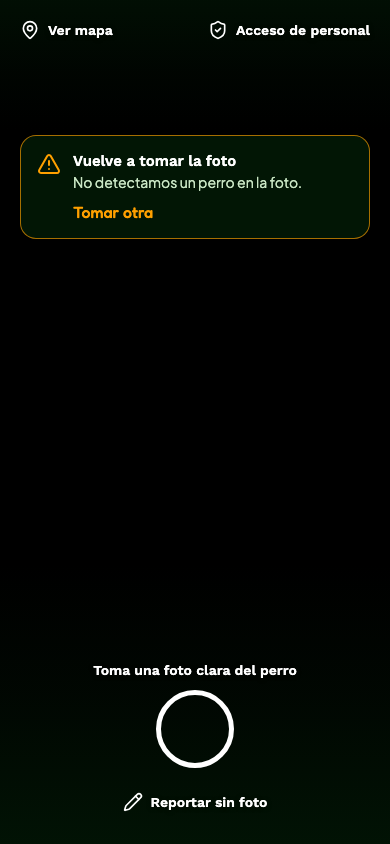
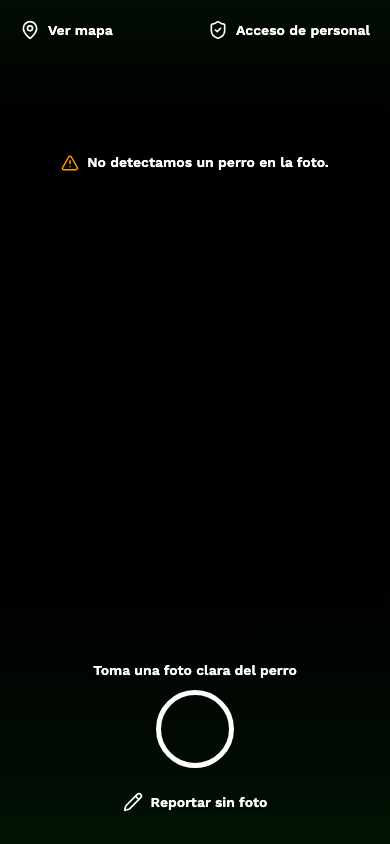
style(design): TD-134 Cámara: avisos minimalistas en una cápsula de una línea
El rechazo y la validación son una cápsula negra translúcida con ícono y una línea; el banner de la cola pierde el borde y la tarjeta, y su reintento es texto amarillo.

diff --git a/screens/CameraScreen.js b/screens/CameraScreen.js
@@ -162,20 +162,20 @@ export default function CameraScreen({
       ) : null}
 
       {feedback && hasPermission ? (
-        <Pressable accessibilityRole="button" onPress={capture.clearFeedback} style={styles.toast}>
-          <Icon name="alert" size={24} color={colors.warningAmber} />
-          <View style={styles.toastText}>
-            <Text style={styles.toastTitle}>{t('camera.retryTitle')}</Text>
-            <Text style={styles.toastBody}>{feedback}</Text>
-            {capture.captureState.phase === 'rejected' ? <Text style={styles.toastAction}>{t('camera.retake')}</Text> : null}
-          </View>
-        </Pressable>
+        <View pointerEvents="box-none" style={styles.noticeSlot}>
+          <Pressable accessibilityRole="button" accessibilityLabel={`${t('camera.retryTitle')}. ${feedback}`} onPress={capture.clearFeedback} style={styles.notice}>
+            <Icon name="alert" size={18} color={colors.warningAmber} />
+            <Text style={styles.noticeText}>{feedback}</Text>
+          </Pressable>
+        </View>
       ) : null}
 
       {validating ? (
-        <View pointerEvents="none" style={styles.validating}>
-          <ActivityIndicator accessibilityLabel={t('camera.validating')} color={colors.onPrimary} />
-          <Text style={styles.validatingText}>{t('camera.validating')}</Text>
+        <View pointerEvents="none" style={styles.noticeSlot}>
+          <View style={styles.notice}>
+            <ActivityIndicator accessibilityLabel={t('camera.validating')} color={colors.onPrimary} />
+            <Text style={styles.noticeText}>{t('camera.validating')}</Text>
+          </View>
         </View>
       ) : null}
 
@@ -216,13 +216,9 @@ const styles = StyleSheet.create({
   permissionButton: { minHeight: 56, alignItems: 'center', justifyContent: 'center', borderRadius: 12, backgroundColor: colors.signal },
   permissionButtonText: { fontFamily: fontFamily.displayMedium, fontSize: 19, color: colors.forestDeep },
   permissionLinks: { flexDirection: 'row', justifyContent: 'center', gap: spacing.xl },
-  toast: { position: 'absolute', top: '16%', left: layout.margin, right: layout.margin, flexDirection: 'row', alignItems: 'flex-start', gap: spacing.md, borderRadius: radius.lg, borderWidth: 1, borderColor: 'rgba(255,160,0,0.65)', backgroundColor: 'rgba(2,26,6,0.84)', padding: spacing.lg },
-  toastText: { flex: 1, gap: 2 },
-  toastTitle: { fontFamily: fontFamily.label, fontSize: 15, color: colors.onPrimary },
-  toastBody: { ...type.body, fontSize: 14, lineHeight: 20, color: colors.onForest },
-  toastAction: { fontFamily: fontFamily.displayMedium, fontSize: 16, color: colors.warningAmber, marginTop: spacing.sm },
-  validating: { position: 'absolute', top: '16%', left: layout.margin, right: layout.margin, flexDirection: 'row', alignItems: 'center', justifyContent: 'center', gap: spacing.md, borderRadius: radius.lg, backgroundColor: 'rgba(2,26,6,0.84)', padding: spacing.lg },
-  validatingText: { fontFamily: fontFamily.displayMedium, fontSize: 17, color: colors.onPrimary },
+  noticeSlot: { position: 'absolute', top: '17%', left: layout.margin, right: layout.margin, alignItems: 'center' },
+  notice: { flexDirection: 'row', alignItems: 'center', gap: spacing.sm, maxWidth: '100%', borderRadius: radius.pill, backgroundColor: 'rgba(0,0,0,0.66)', paddingVertical: spacing.sm + 2, paddingHorizontal: spacing.lg },
+  noticeText: { flexShrink: 1, fontFamily: fontFamily.label, fontSize: 14, lineHeight: 19, color: colors.onPrimary },
   bottomPanel: { position: 'absolute', left: 0, right: 0, bottom: 0, alignItems: 'center', gap: spacing.md, paddingHorizontal: layout.margin },
   helper: { fontFamily: fontFamily.label, fontSize: 14, textAlign: 'center', color: colors.onPrimary, textShadowColor: 'rgba(0,0,0,0.55)', textShadowRadius: 4, textShadowOffset: { width: 0, height: 1 } },
   captureButton: { width: 78, height: 78, borderRadius: 39, borderWidth: 5, borderColor: colors.onPrimary, backgroundColor: 'transparent', alignItems: 'center', justifyContent: 'center' },

diff --git a/components/DraftQueueBanner.js b/components/DraftQueueBanner.js
@@ -76,52 +76,42 @@ export default function DraftQueueBanner({
     <View
       testID="draft-queue-banner"
       accessibilityLiveRegion="polite"
-      style={[
-        styles.banner,
-        content.tone === 'danger' && styles.bannerDanger,
-        content.tone === 'success' && styles.bannerSuccess,
-        style,
-      ]}
+      style={[styles.slot, style]}
     >
-      <View style={styles.text}>
-        <Text style={[
-          styles.title,
-          content.tone === 'danger' && styles.titleDanger,
-          content.tone === 'success' && styles.titleSuccess,
-        ]}>
-          {content.title}
-        </Text>
-        <Text style={styles.body}>{content.body}</Text>
+      <View style={styles.banner}>
+        <View style={styles.text}>
+          <Text style={[styles.title, content.tone === 'danger' && styles.titleDanger, content.tone === 'success' && styles.titleSuccess]}>
+            {content.title}
+          </Text>
+          <Text style={styles.body}>{content.body}</Text>
+        </View>
+        {content.action ? (
+          <Pressable
+            testID="draft-queue-retry"
+            accessibilityRole="button"
+            accessibilityState={{ disabled: !summary?.canRetryNow || summary?.isSyncing }}
+            disabled={!summary?.canRetryNow || summary?.isSyncing}
+            onPress={onRetry}
+            hitSlop={8}
+            style={({ pressed }) => [styles.retryButton, pressed && styles.pressed]}
+          >
+            <Text style={styles.retryText}>{content.action}</Text>
+          </Pressable>
+        ) : null}
       </View>
-      {content.action ? (
-        <Pressable
-          testID="draft-queue-retry"
-          accessibilityRole="button"
-          accessibilityState={{ disabled: !summary?.canRetryNow || summary?.isSyncing }}
-          disabled={!summary?.canRetryNow || summary?.isSyncing}
-          onPress={onRetry}
-          style={({ pressed }) => [
-            styles.retryButton,
-            pressed && styles.pressed,
-          ]}
-        >
-          <Text style={styles.retryText}>{content.action}</Text>
-        </Pressable>
-      ) : null}
     </View>
   );
 }
 
 const styles = StyleSheet.create({
-  banner: { minHeight: 64, borderRadius: radius.lg, borderWidth: 1, borderColor: 'rgba(255,160,0,0.65)', backgroundColor: 'rgba(2,26,6,0.86)', paddingHorizontal: spacing.lg, paddingVertical: spacing.md, flexDirection: 'row', alignItems: 'center', gap: spacing.md },
-  bannerDanger: { borderColor: 'rgba(255,180,171,0.8)' },
-  bannerSuccess: { borderColor: 'rgba(145,215,138,0.8)' },
-  text: { flex: 1, gap: 2 },
-  title: { color: colors.onPrimary, fontFamily: fontFamily.label, fontSize: 15, lineHeight: 20 },
+  slot: { alignItems: 'center' },
+  banner: { maxWidth: '100%', flexDirection: 'row', alignItems: 'center', gap: spacing.lg, borderRadius: radius.lg, backgroundColor: 'rgba(0,0,0,0.66)', paddingVertical: spacing.md, paddingHorizontal: spacing.lg },
+  text: { flexShrink: 1, gap: 1 },
+  title: { color: colors.onPrimary, fontFamily: fontFamily.label, fontSize: 14, lineHeight: 19 },
   titleDanger: { color: '#ffb4ab' },
   titleSuccess: { color: colors.primaryFixed },
   body: { color: colors.onForest, fontFamily: fontFamily.regular, fontSize: 13, lineHeight: 18 },
-  retryButton: { minHeight: layout.minTouch, justifyContent: 'center', borderRadius: 12, backgroundColor: colors.signal, paddingHorizontal: spacing.lg },
-  retryText: { color: colors.forestDeep, fontFamily: fontFamily.displayMedium, fontSize: 15, textAlign: 'center' },
-  pressed: { opacity: 0.75 },
+  retryButton: { minHeight: layout.minTouch, justifyContent: 'center' },
+  retryText: { color: colors.signal, fontFamily: fontFamily.displayMedium, fontSize: 15 },
+  pressed: { opacity: 0.7 },
 });
